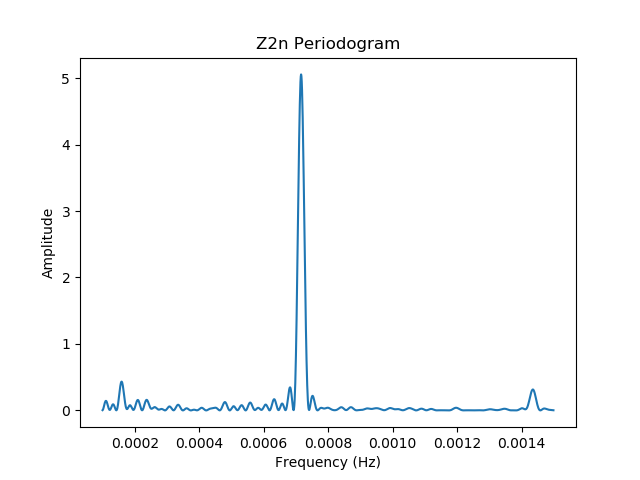
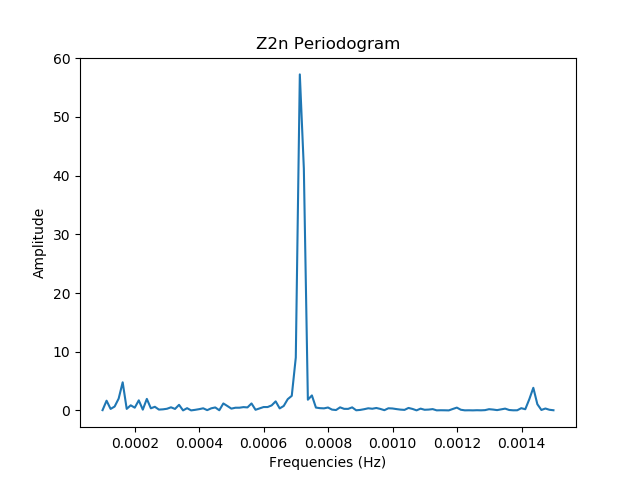
delta

diff --git a/bin/prompt.py b/bin/prompt.py
@@ -13,14 +13,43 @@ from stats import z2n
 from figure import plot
 
 @shell(prompt = '(z2n) >>> ', intro = globals.intro)
-#@click.option('--fits', '-f', type=(click.Path()), help='Path to fits file.')
-#@click.option('--read', '-r', type=(click.Path()), help='Path to script file.')
-def cli():
+@click.option('--run', '-r', type=(click.Path()), help='Auto run Z2n with given fits file.')
+def cli(run):
     """
     A python package for optimized Z2n periodograms from fits datasets
 
     For more information go to https://z2n-periodogram.github.io
     """
+        
+    try:
+        
+        if len(run) != 0:
+            globals.time = fits.load_fits(run)
+            globals.time.size
+            click.echo("\nPhoton arrival times.\n")
+            click.echo(globals.time)
+            click.echo("\nCalculating the Nyquist frequency.\n")
+            globals.sample_rate = z2n.nyquist(globals.time)
+            globals.frequencies = globals.np.arange(1e-4, 1.5e-3, globals.sample_rate)
+            click.echo(globals.sample_rate)
+            click.echo("\nCalculating phase values.\n")
+            globals.phase = z2n.phases(globals.time, globals.frequencies)
+            click.echo("\n")            
+            click.echo(globals.phase)
+            click.echo("\nApplying the Z2n statistics.\n")
+            globals.periodogram = z2n.periodogram(globals.phase, globals.frequencies)
+            click.echo("\n")
+            click.echo(globals.periodogram)
+            click.echo("\n")
+            globals.figure.set_title("Z2n Periodogram")
+            globals.figure.set_xlabel("Frequencies (Hz)")
+            globals.figure.set_yabel("Amplitude")
+            globals.figure.set_file("z2n")
+            plot.savefig(globals.frequencies, globals.periodogram, globals.figure)
+            click.echo("\nFile saved at %s.png.\n" %globals.figure.file)
+
+    except:
+        pass
 
 @cli.command()
 def copyright():
@@ -76,13 +105,41 @@ def file(path):
         pass
 
 @cli.command()
+def rate():
+    """
+    Finds the Nyquist frequency to recover the signal (type rate).
+    """
+    try:
+        globals.time.size
+    
+    except:
+        click.echo("\nNo fits files were loaded yet. Try run file command.\n")
+
+    if globals.time.size == 0:
+        click.echo("\nNo fits files were loaded yet. Try run file command.\n")
+
+    else:
+        click.echo("\nCalculating the Nyquist frequency.\n")
+        globals.sample_rate = z2n.nyquist(globals.time)
+        globals.frequencies = globals.np.arange(1e-4, 1.5e-3, globals.sample_rate)
+        click.echo(globals.sample_rate)
+
+@cli.command()
 def stats():
     """
     Applies the Z2n stats to photon arrival times (type stats).
     """
 
+    try:
+        globals.time.size
+    except:
+        click.echo("\nNo fits files were loaded yet. Try run file command.\n")
+
     if globals.time.size == 0:
         click.echo("\nNo fits files were loaded yet. Try run file command.\n")
+
+    elif globals.sample_rate == 0:
+        click.echo("\nThe Nyquist frequency was not calculated yet. Try run rate command.\n")
 
     else:
         click.echo("\nCalculating phase values.\n")

diff --git a/stats/z2n.py b/stats/z2n.py
@@ -4,6 +4,19 @@
 import numpy as np
 from tqdm import trange, tqdm
 
+def nyquist(arrival_times):
+    """
+    Calculates sampling rate of the given time series.
+    """
+
+    interval = np.mean(np.diff(arrival_times))
+
+    period = arrival_times.size * interval
+
+    freq = 1 / period
+
+    return freq / 2
+
 def phases(arrival_times, frequencies):
     """
     Calculates phase values from photon arrival times.

diff --git a/globals.py b/globals.py
@@ -45,8 +45,9 @@ class Figure():
     def set_file(self, f):
         self.file = f
 
+sample_rate = 0
 time = np.array([])
 phase = np.array([])
 periodogram = np.array([])
-frequencies = np.arange(1e-4, 1.5e-3, 1e-6)
+frequencies = np.array([])
 figure = Figure()

diff --git a/file/fits.py b/file/fits.py
@@ -16,5 +16,7 @@ def load_fits(path):
         
         return time_series
 
-    except:
-        pass
+    except FileNotFoundError as error:
+        print("\n")
+        print(error)
+        print("\n")

diff --git a/setup.py b/setup.py
@@ -9,7 +9,6 @@ with open("README.md", "r") as fh:
     install_requires=[
         'Click',
         'Click-shell',
-        'Subprocess',
     ],
     entry_points='''
         [console_scripts]
